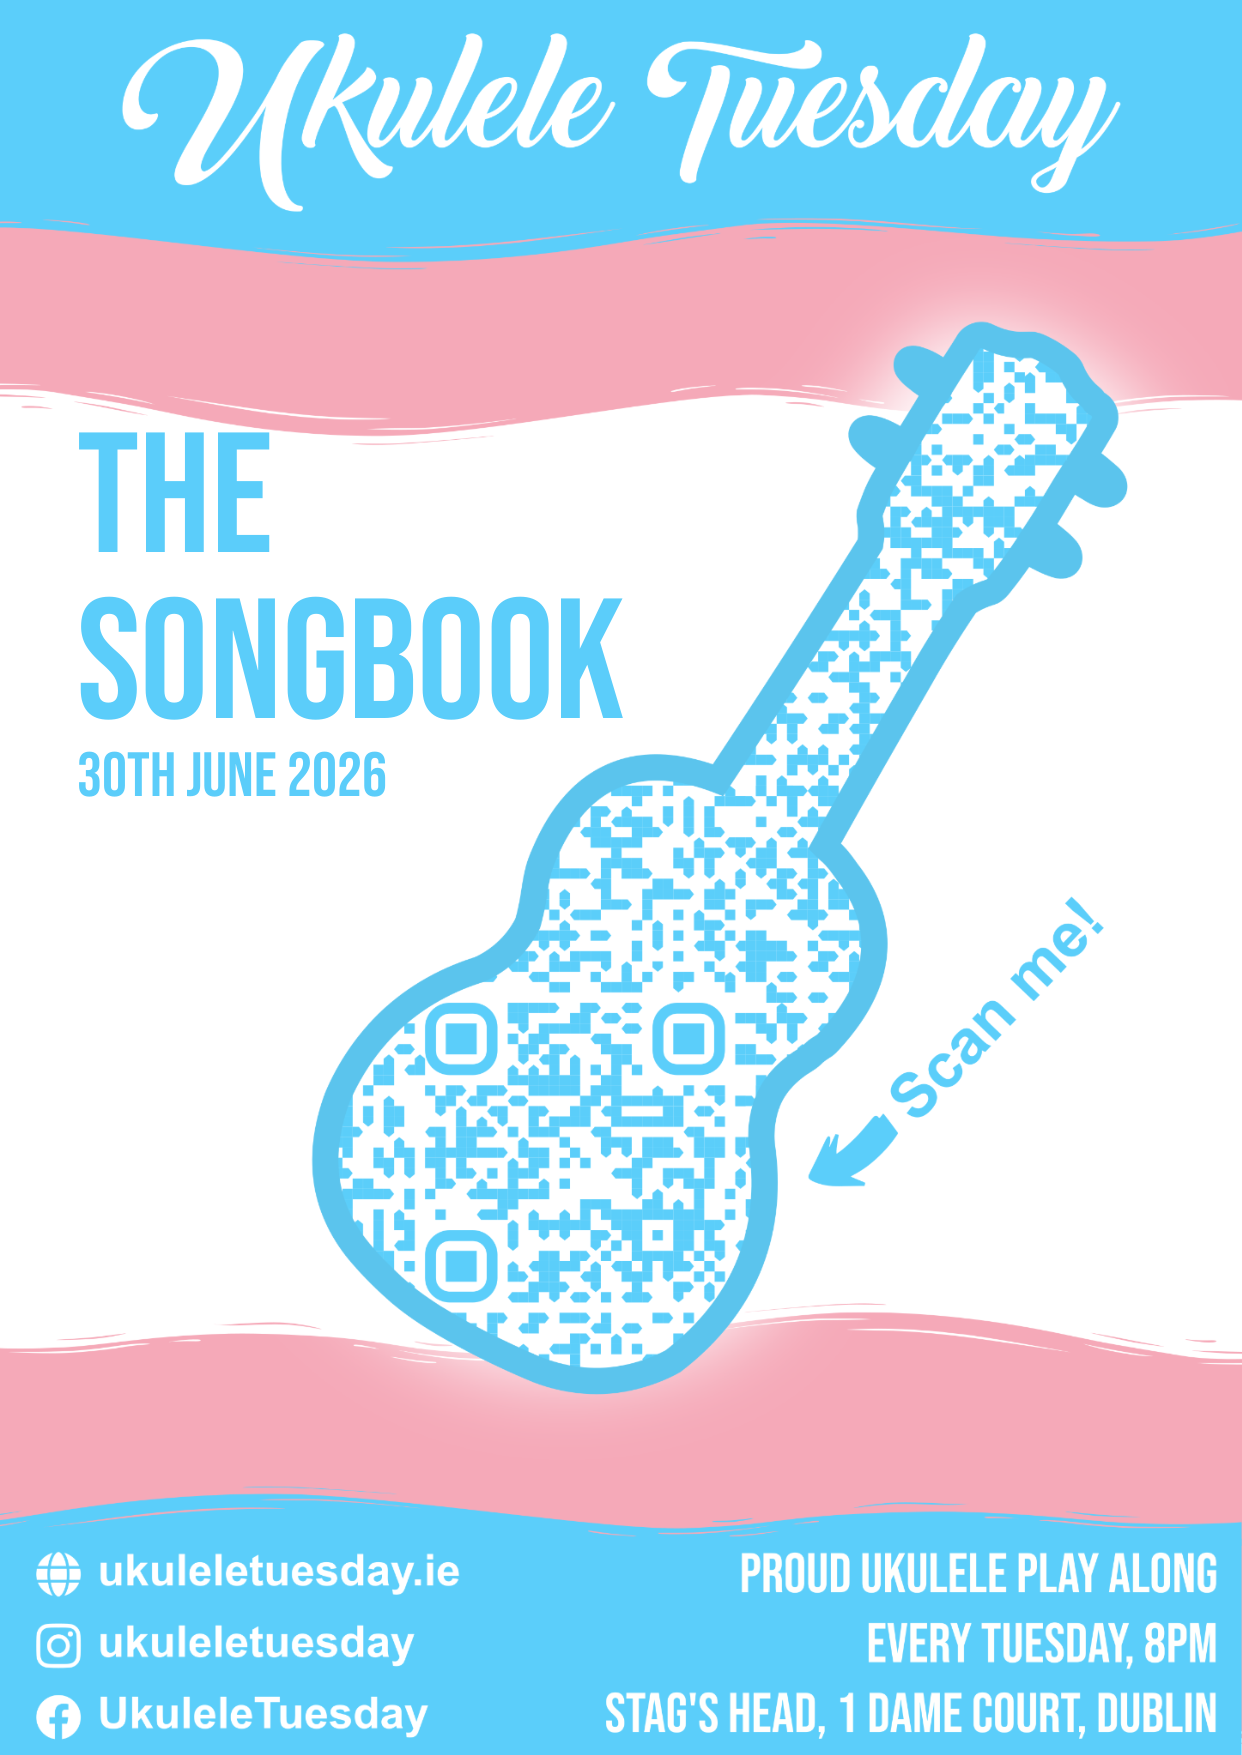
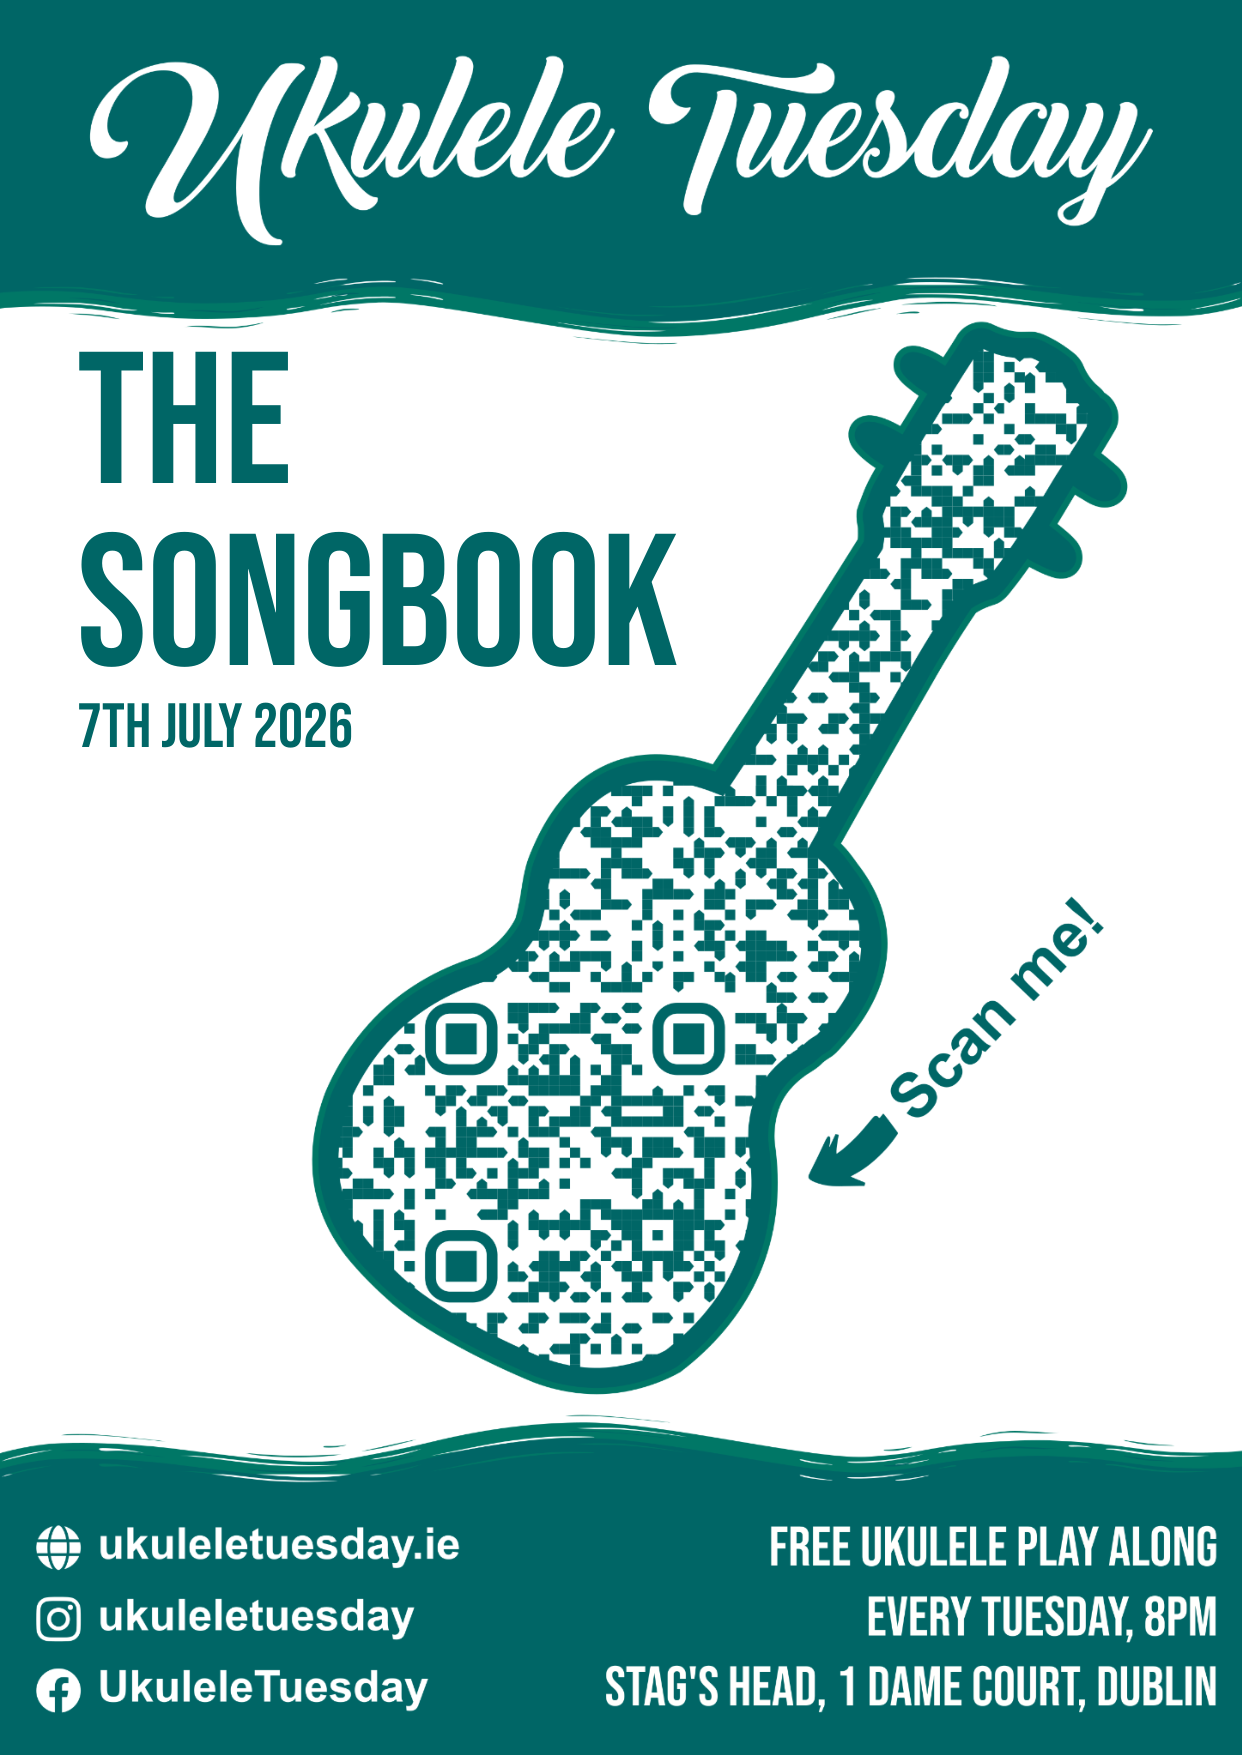
Deploying to gh-pages from @ UkuleleTuesday/songbooks@9b045c8cae9236a541b20221f7f7fda6784ddca8 🚀

diff --git a/index.html b/index.html
@@ -51,28 +51,200 @@
       
         <li class="songbook-item">
           
-          <a href="https://storage.googleapis.com/ukulele-tuesday-songbooks/pride-2026/ukulele-tuesday-songbook-pride-2026-2026-06-30.pdf" target="_blank" rel="noopener noreferrer"
+          <a href="https://storage.googleapis.com/ukulele-tuesday-songbooks/current/ukulele-tuesday-songbook-current-2026-07-06.pdf" target="_blank" rel="noopener noreferrer"
              class="songbook-link"
-             data-songbook-title="Pride 2026"
-             data-songbook-url="https://storage.googleapis.com/ukulele-tuesday-songbooks/pride-2026/ukulele-tuesday-songbook-pride-2026-2026-06-30.pdf"
-             data-songbook-filename="ukulele-tuesday-songbook-pride-2026-2026-06-30.pdf"
-             data-songbook-subject="A dedicated Pride edition: every song flagged as Pride in the current Tuesday songbook, and only those. Happy Pride! 🏳🌈
+             data-songbook-title="Current Songbook"
+             data-songbook-url="https://storage.googleapis.com/ukulele-tuesday-songbooks/current/ukulele-tuesday-songbook-current-2026-07-06.pdf"
+             data-songbook-filename="ukulele-tuesday-songbook-current-2026-07-06.pdf"
+             data-songbook-subject="The current edition of the Ukulele Tuesday songbook, containing the songs used during our Tuesday sessions.
+We rotate the songs we play on Tuesday sessions frequently, so make sure to download the latest version!
 ">
             <div class="preview-container">
-              <img src="previews/pride-2026.png" alt="Preview of Ukulele Tuesday - Pride 2026">
+              <img src="previews/current.png" alt="Preview of Ukulele Tuesday - Current Songbook">
               <div class="download-icon">
                 <svg xmlns="http://www.w3.org/2000/svg" width="24" height="24" viewBox="0 0 24 24" fill="none" stroke="currentColor" stroke-width="2" stroke-linecap="round" stroke-linejoin="round"><path d="M21 15v4a2 2 0 0 1-2 2H5a2 2 0 0 1-2-2v-4"></path><polyline points="7 10 12 15 17 10"></polyline><line x1="12" y1="15" x2="12" y2="3"></line></svg>
               </div>
             </div>
             <div class="song-details">
-              <div class="title" title="Pride 2026">Pride 2026</div>
+              <div class="title" title="Current Songbook">Current Songbook</div>
               
-              <div class="subtitle" title="A dedicated Pride edition: every song flagged as Pride in the current Tuesday songbook, and only those. Happy Pride! 🏳🌈
-">A dedicated Pride edition: every song flagged as Pride in the current Tuesday songbook, and only those. Happy Pride! 🏳🌈
+              <div class="subtitle" title="The current edition of the Ukulele Tuesday songbook, containing the songs used during our Tuesday sessions.
+We rotate the songs we play on Tuesday sessions frequently, so make sure to download the latest version!
+">The current edition of the Ukulele Tuesday songbook, containing the songs used during our Tuesday sessions.
+We rotate the songs we play on Tuesday sessions frequently, so make sure to download the latest version!
 </div>
               
             </div>
           </a>
+          
+          <details class="songbook-changelog">
+            <summary>What's new</summary>
+            <div class="changelog-body">
+              
+      <div class="changelog-entry">
+        <div class="changelog-date">6 Jul 2026</div>
+        
+        <div class="changelog-group changelog-added">
+          <h4>Added</h4>
+          <ul><li><a href="https://ukuleletuesday.github.io/songs/sheets/texas-holdem-beyonce/" target="_blank" rel="noopener noreferrer">TEXAS HOLD&#39;EM - Beyoncé</a></li><li><a href="https://ukuleletuesday.github.io/songs/sheets/you-oughta-know-alanis-morissette/" target="_blank" rel="noopener noreferrer">You Oughta Know - Alanis Morissette</a></li></ul>
+        </div>
+        
+        
+        <div class="changelog-group changelog-removed">
+          <h4>Removed</h4>
+          <ul><li><a href="https://ukuleletuesday.github.io/songs/sheets/cant-get-you-out-of-my-head-kylie-minogue/" target="_blank" rel="noopener noreferrer">Can&#39;t Get You out of My Head - Kylie Minogue</a></li><li><a href="https://ukuleletuesday.github.io/songs/sheets/crocodile-rock-elton-john/" target="_blank" rel="noopener noreferrer">Crocodile Rock - Elton John</a></li><li><a href="https://ukuleletuesday.github.io/songs/sheets/i-want-to-break-free-queen/" target="_blank" rel="noopener noreferrer">I Want to Break Free - Queen</a></li><li><a href="https://ukuleletuesday.github.io/songs/sheets/king-for-a-day-green-day/" target="_blank" rel="noopener noreferrer">King for a Day - Green Day</a></li><li><a href="https://ukuleletuesday.github.io/songs/sheets/talkin-bout-a-revolution-tracy-chapman/" target="_blank" rel="noopener noreferrer">Talkin&#39; Bout a Revolution - Tracy Chapman</a></li><li><a href="https://ukuleletuesday.github.io/songs/sheets/the-edge-of-glory-radio-edit-lady-gaga/" target="_blank" rel="noopener noreferrer">The Edge Of Glory (Radio Edit) - Lady Gaga</a></li><li><a href="https://ukuleletuesday.github.io/songs/sheets/true-trans-soul-rebel-against-me/" target="_blank" rel="noopener noreferrer">True Trans Soul Rebel - Against Me!</a></li></ul>
+        </div>
+        
+      </div>
+      
+              
+              <button type="button" class="changelog-more" hidden>Earlier changes…</button>
+              <div class="changelog-earlier">
+                
+      <div class="changelog-entry">
+        <div class="changelog-date">28 Jun 2026</div>
+        
+        <div class="changelog-group changelog-added">
+          <h4>Added</h4>
+          <ul><li><a href="https://ukuleletuesday.github.io/songs/sheets/king-for-a-day-green-day/" target="_blank" rel="noopener noreferrer">King for a Day - Green Day</a></li><li><a href="https://ukuleletuesday.github.io/songs/sheets/talkin-bout-a-revolution-tracy-chapman/" target="_blank" rel="noopener noreferrer">Talkin&#39; Bout a Revolution - Tracy Chapman</a></li></ul>
+        </div>
+        
+        
+        <div class="changelog-group changelog-removed">
+          <h4>Removed</h4>
+          <ul><li><a href="https://ukuleletuesday.github.io/songs/sheets/take-a-chance-on-me-abba/" target="_blank" rel="noopener noreferrer">Take A Chance On Me - ABBA</a></li></ul>
+        </div>
+        
+      </div>
+      
+      <div class="changelog-entry">
+        <div class="changelog-date">20 Jun 2026</div>
+        
+        <div class="changelog-group changelog-added">
+          <h4>Added</h4>
+          <ul><li><a href="https://ukuleletuesday.github.io/songs/sheets/all-the-things-she-said-t-a-t-u/" target="_blank" rel="noopener noreferrer">All The Things She Said - t.A.T.u.</a></li><li><a href="https://ukuleletuesday.github.io/songs/sheets/mamma-mia-abba/" target="_blank" rel="noopener noreferrer">Mamma Mia - ABBA</a></li><li><a href="https://ukuleletuesday.github.io/songs/sheets/true-trans-soul-rebel-against-me/" target="_blank" rel="noopener noreferrer">True Trans Soul Rebel - Against Me!</a></li></ul>
+        </div>
+        
+        
+        <div class="changelog-group changelog-removed">
+          <h4>Removed</h4>
+          <ul><li><a href="https://ukuleletuesday.github.io/songs/sheets/an-poc-ar-buile-the-mad-puck-goat-the-chieftains/" target="_blank" rel="noopener noreferrer">An Poc Ar Buile (The Mad Puck Goat) - The Chieftains</a></li><li><a href="https://ukuleletuesday.github.io/songs/sheets/gangstas-paradise-coolio-l-v/" target="_blank" rel="noopener noreferrer">Gangsta&#39;s Paradise - Coolio, L.V.</a></li><li><a href="https://ukuleletuesday.github.io/songs/sheets/whiskey-in-the-jar-thin-lizzy/" target="_blank" rel="noopener noreferrer">Whiskey in the Jar - Thin Lizzy</a></li><li><a href="https://ukuleletuesday.github.io/songs/sheets/youre-the-one-that-i-want-john-travolta-olivia-newton-john/" target="_blank" rel="noopener noreferrer">You&#39;re The One That I Want - John Travolta, Olivia Newton-John</a></li></ul>
+        </div>
+        
+      </div>
+      
+      <div class="changelog-entry">
+        <div class="changelog-date">15 Jun 2026</div>
+        
+        <div class="changelog-group changelog-added">
+          <h4>Added</h4>
+          <ul><li><a href="https://ukuleletuesday.github.io/songs/sheets/cant-get-you-out-of-my-head-kylie-minogue/" target="_blank" rel="noopener noreferrer">Can&#39;t Get You out of My Head - Kylie Minogue</a></li><li><a href="https://ukuleletuesday.github.io/songs/sheets/nancy-boy-placebo/" target="_blank" rel="noopener noreferrer">Nancy Boy - Placebo</a></li></ul>
+        </div>
+        
+        
+        <div class="changelog-group changelog-removed">
+          <h4>Removed</h4>
+          <ul><li><a href="https://ukuleletuesday.github.io/songs/sheets/hotel-california-the-eagles/" target="_blank" rel="noopener noreferrer">Hotel California - The Eagles</a></li><li><a href="https://ukuleletuesday.github.io/songs/sheets/summer-of-69-bryan-adams/" target="_blank" rel="noopener noreferrer">Summer of &#39;69 - Bryan Adams</a></li></ul>
+        </div>
+        
+      </div>
+      
+      <div class="changelog-entry">
+        <div class="changelog-date">9 Jun 2026</div>
+        
+        <div class="changelog-group changelog-added">
+          <h4>Added</h4>
+          <ul><li><a href="https://ukuleletuesday.github.io/songs/sheets/crocodile-rock-elton-john/" target="_blank" rel="noopener noreferrer">Crocodile Rock - Elton John</a></li><li><a href="https://ukuleletuesday.github.io/songs/sheets/i-want-to-break-free-queen/" target="_blank" rel="noopener noreferrer">I Want to Break Free - Queen</a></li><li><a href="https://ukuleletuesday.github.io/songs/sheets/the-edge-of-glory-radio-edit-lady-gaga/" target="_blank" rel="noopener noreferrer">The Edge Of Glory (Radio Edit) - Lady Gaga</a></li></ul>
+        </div>
+        
+        
+        <div class="changelog-group changelog-removed">
+          <h4>Removed</h4>
+          <ul><li><a href="https://ukuleletuesday.github.io/songs/sheets/folsom-prison-blues-johnny-cash/" target="_blank" rel="noopener noreferrer">Folsom Prison Blues - Johnny Cash</a></li><li><a href="https://ukuleletuesday.github.io/songs/sheets/fuck-you-cee-lo-green/" target="_blank" rel="noopener noreferrer">Fuck You - Cee Lo Green</a></li><li><a href="https://ukuleletuesday.github.io/songs/sheets/i-kissed-a-girl-katy-perry/" target="_blank" rel="noopener noreferrer">I Kissed A Girl - Katy Perry</a></li></ul>
+        </div>
+        
+      </div>
+      
+      <div class="changelog-entry">
+        <div class="changelog-date">2 Jun 2026</div>
+        
+        <div class="changelog-group changelog-added">
+          <h4>Added</h4>
+          <ul><li><a href="https://ukuleletuesday.github.io/songs/sheets/grace-kelly-mika/" target="_blank" rel="noopener noreferrer">Grace Kelly - MIKA</a></li><li><a href="https://ukuleletuesday.github.io/songs/sheets/hey-jude-the-beatles/" target="_blank" rel="noopener noreferrer">Hey Jude - The Beatles</a></li><li><a href="https://ukuleletuesday.github.io/songs/sheets/i-feel-love-donna-summer/" target="_blank" rel="noopener noreferrer">I Feel Love - Donna Summer</a></li></ul>
+        </div>
+        
+        
+        <div class="changelog-group changelog-removed">
+          <h4>Removed</h4>
+          <ul><li><a href="https://ukuleletuesday.github.io/songs/sheets/hanno-ucciso-luomo-ragno-883/" target="_blank" rel="noopener noreferrer">Hanno ucciso l&#39;Uomo Ragno - 883</a></li><li><a href="https://ukuleletuesday.github.io/songs/sheets/learn-to-fly-foo-fighters/" target="_blank" rel="noopener noreferrer">Learn to Fly - Foo Fighters</a></li><li><a href="https://ukuleletuesday.github.io/songs/sheets/tarantella-napoletana-andrea-colombari/" target="_blank" rel="noopener noreferrer">Tarantella napoletana - Andrea Colombari</a></li></ul>
+        </div>
+        
+      </div>
+      
+      <div class="changelog-entry">
+        <div class="changelog-date">10 May 2026</div>
+        
+        <div class="changelog-group changelog-added">
+          <h4>Added</h4>
+          <ul><li><a href="https://ukuleletuesday.github.io/songs/sheets/pedro-raffaella-carra/" target="_blank" rel="noopener noreferrer">Pedro - Raffaella Carrà</a></li></ul>
+        </div>
+        
+        
+      </div>
+      
+      <div class="changelog-entry">
+        <div class="changelog-date">4 May 2026</div>
+        
+        <div class="changelog-group changelog-added">
+          <h4>Added</h4>
+          <ul><li><a href="https://ukuleletuesday.github.io/songs/sheets/hanno-ucciso-luomo-ragno-883/" target="_blank" rel="noopener noreferrer">Hanno ucciso l&#39;Uomo Ragno - 883</a></li><li><a href="https://ukuleletuesday.github.io/songs/sheets/tarantella-napoletana-andrea-colombari/" target="_blank" rel="noopener noreferrer">Tarantella napoletana - Andrea Colombari</a></li></ul>
+        </div>
+        
+        
+      </div>
+      
+      <div class="changelog-entry">
+        <div class="changelog-date">28 Apr 2026</div>
+        
+        <div class="changelog-group changelog-added">
+          <h4>Added</h4>
+          <ul><li><a href="https://ukuleletuesday.github.io/songs/sheets/blinding-lights-the-weeknd/" target="_blank" rel="noopener noreferrer">Blinding Lights - The Weeknd</a></li></ul>
+        </div>
+        
+        
+        <div class="changelog-group changelog-removed">
+          <h4>Removed</h4>
+          <ul><li><a href="https://ukuleletuesday.github.io/songs/sheets/boom-boom-boom-boom-vengaboys/" target="_blank" rel="noopener noreferrer">Boom, Boom, Boom, Boom!! - Vengaboys</a></li></ul>
+        </div>
+        
+      </div>
+      
+      <div class="changelog-entry">
+        <div class="changelog-date">3 Mar 2026</div>
+        
+        <div class="changelog-group changelog-added">
+          <h4>Added</h4>
+          <ul><li><a href="https://ukuleletuesday.github.io/songs/sheets/one-u2/" target="_blank" rel="noopener noreferrer">One - U2</a></li></ul>
+        </div>
+        
+        
+      </div>
+      
+      <div class="changelog-entry">
+        <div class="changelog-date">24 Feb 2026</div>
+        
+        <div class="changelog-group changelog-added">
+          <h4>Added</h4>
+          <ul><li><a href="https://ukuleletuesday.github.io/songs/sheets/learn-to-fly-foo-fighters/" target="_blank" rel="noopener noreferrer">Learn to Fly - Foo Fighters</a></li></ul>
+        </div>
+        
+        
+      </div>
+      
+              </div>
+              
+            </div>
+          </details>
           
         </li>
       
@@ -234,7 +406,7 @@
         </a>
       </div>
       
-      <div class="last-updated" id="last-updated-container" data-timestamp="2026-07-06T18:53:51.570394+00:00">
+      <div class="last-updated" id="last-updated-container" data-timestamp="2026-07-06T21:07:52.751152+00:00">
         Last updated: <span id="last-updated-text"></span>
       </div>
       <script>

diff --git a/current/index.html b/current/index.html
@@ -2,11 +2,11 @@
 <html>
 <head>
 <title>Redirecting to Ukulele Tuesday - Current Songbook</title>
-<link rel="canonical" href="https://storage.googleapis.com/ukulele-tuesday-songbooks/current/ukulele-tuesday-songbook-current-2026-06-30.pdf" />
-<meta http-equiv="refresh" content="0; url=https://storage.googleapis.com/ukulele-tuesday-songbooks/current/ukulele-tuesday-songbook-current-2026-06-30.pdf">
-<script>window.location.replace("https://storage.googleapis.com/ukulele-tuesday-songbooks/current/ukulele-tuesday-songbook-current-2026-06-30.pdf");</script>
+<link rel="canonical" href="https://storage.googleapis.com/ukulele-tuesday-songbooks/current/ukulele-tuesday-songbook-current-2026-07-06.pdf" />
+<meta http-equiv="refresh" content="0; url=https://storage.googleapis.com/ukulele-tuesday-songbooks/current/ukulele-tuesday-songbook-current-2026-07-06.pdf">
+<script>window.location.replace("https://storage.googleapis.com/ukulele-tuesday-songbooks/current/ukulele-tuesday-songbook-current-2026-07-06.pdf");</script>
 </head>
 <body>
-<p>If you are not redirected, <a href="https://storage.googleapis.com/ukulele-tuesday-songbooks/current/ukulele-tuesday-songbook-current-2026-06-30.pdf">click here to view the songbook</a>.</p>
+<p>If you are not redirected, <a href="https://storage.googleapis.com/ukulele-tuesday-songbooks/current/ukulele-tuesday-songbook-current-2026-07-06.pdf">click here to view the songbook</a>.</p>
 </body>
 </html>
